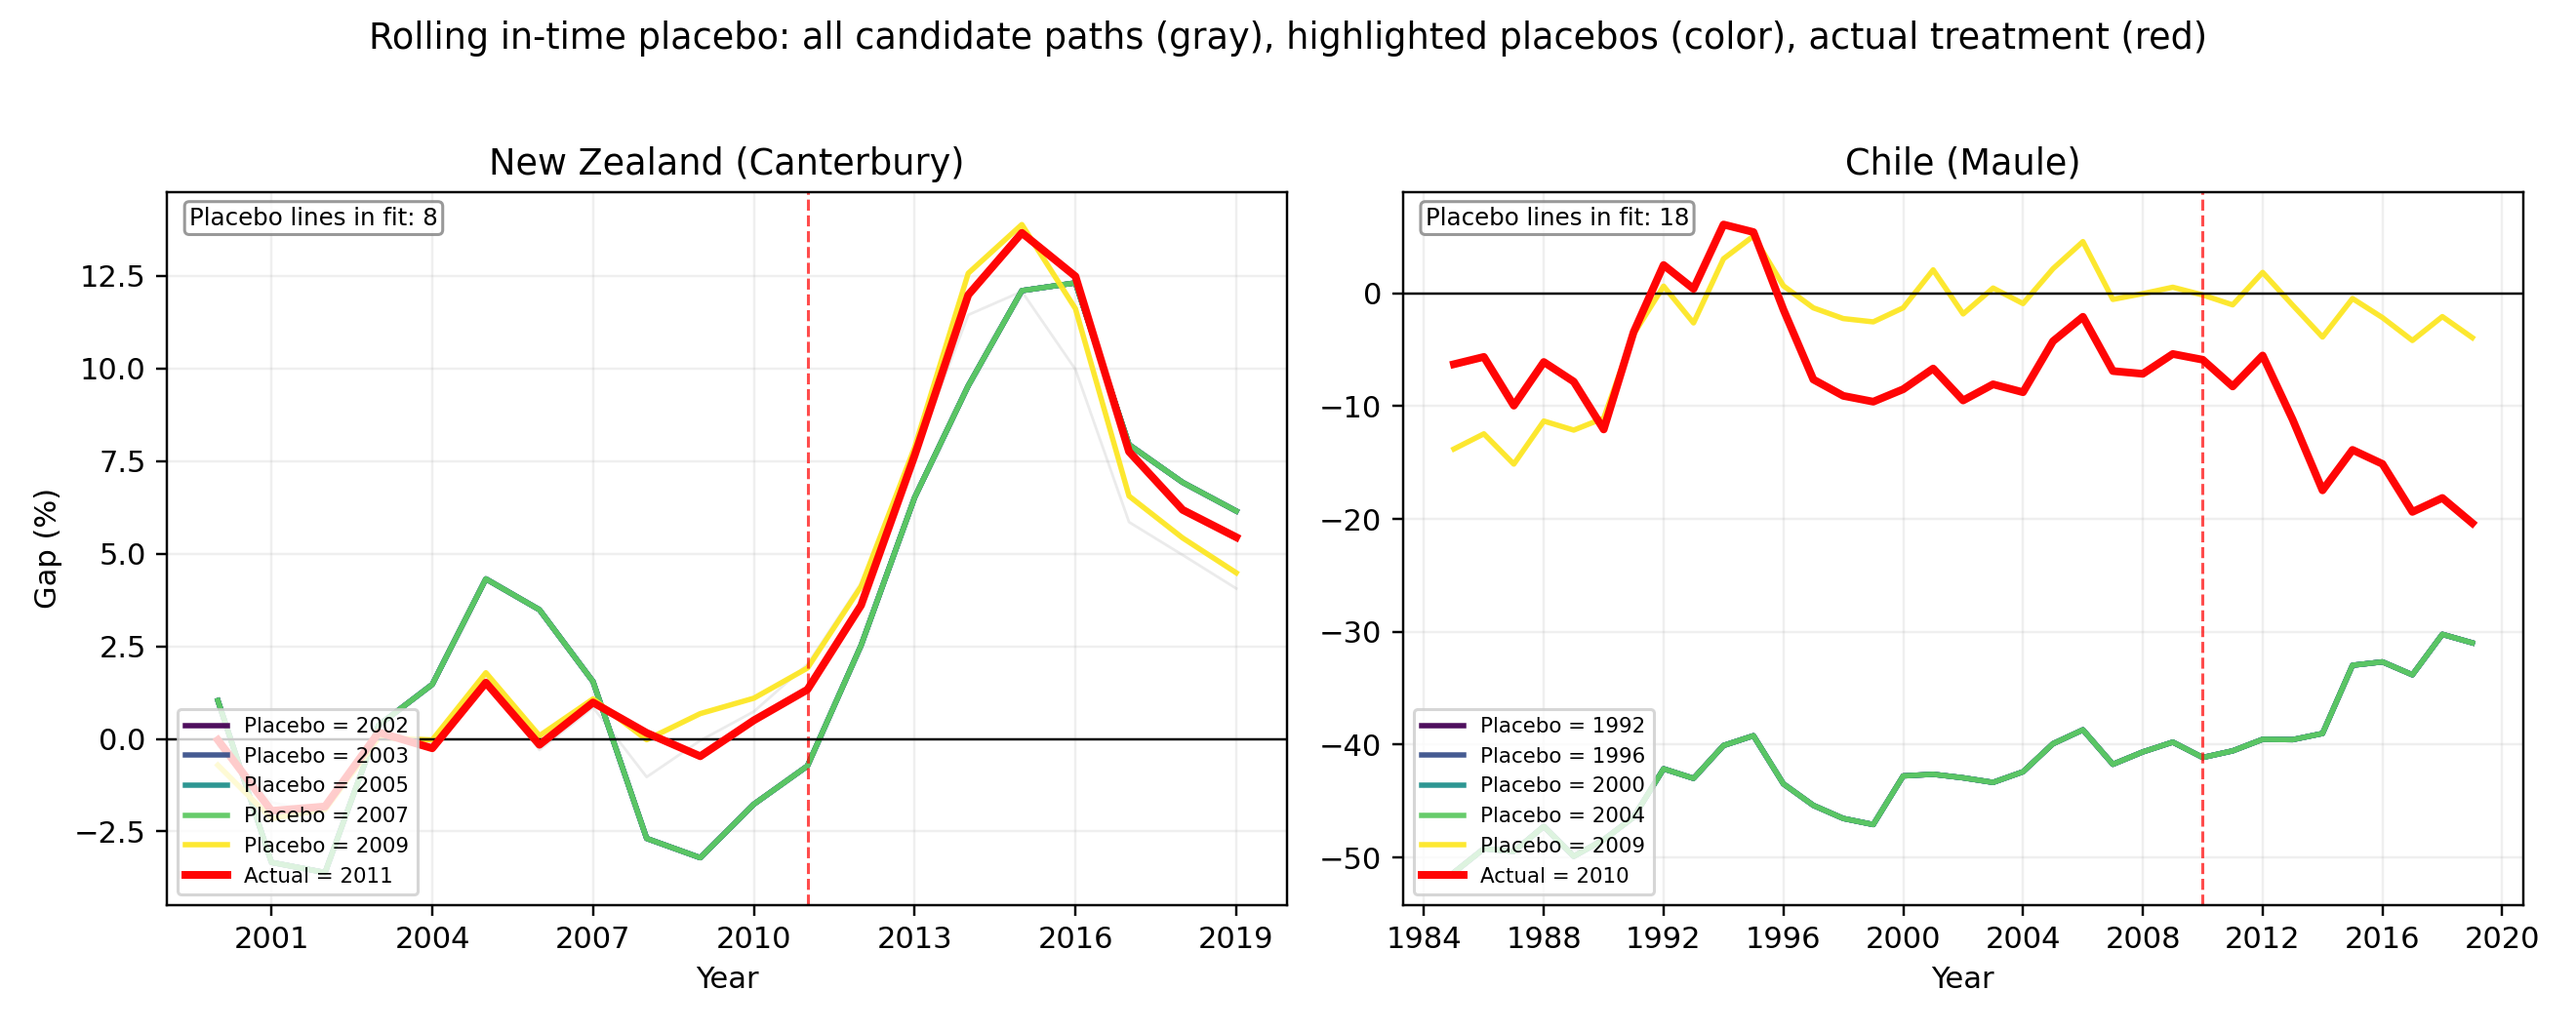
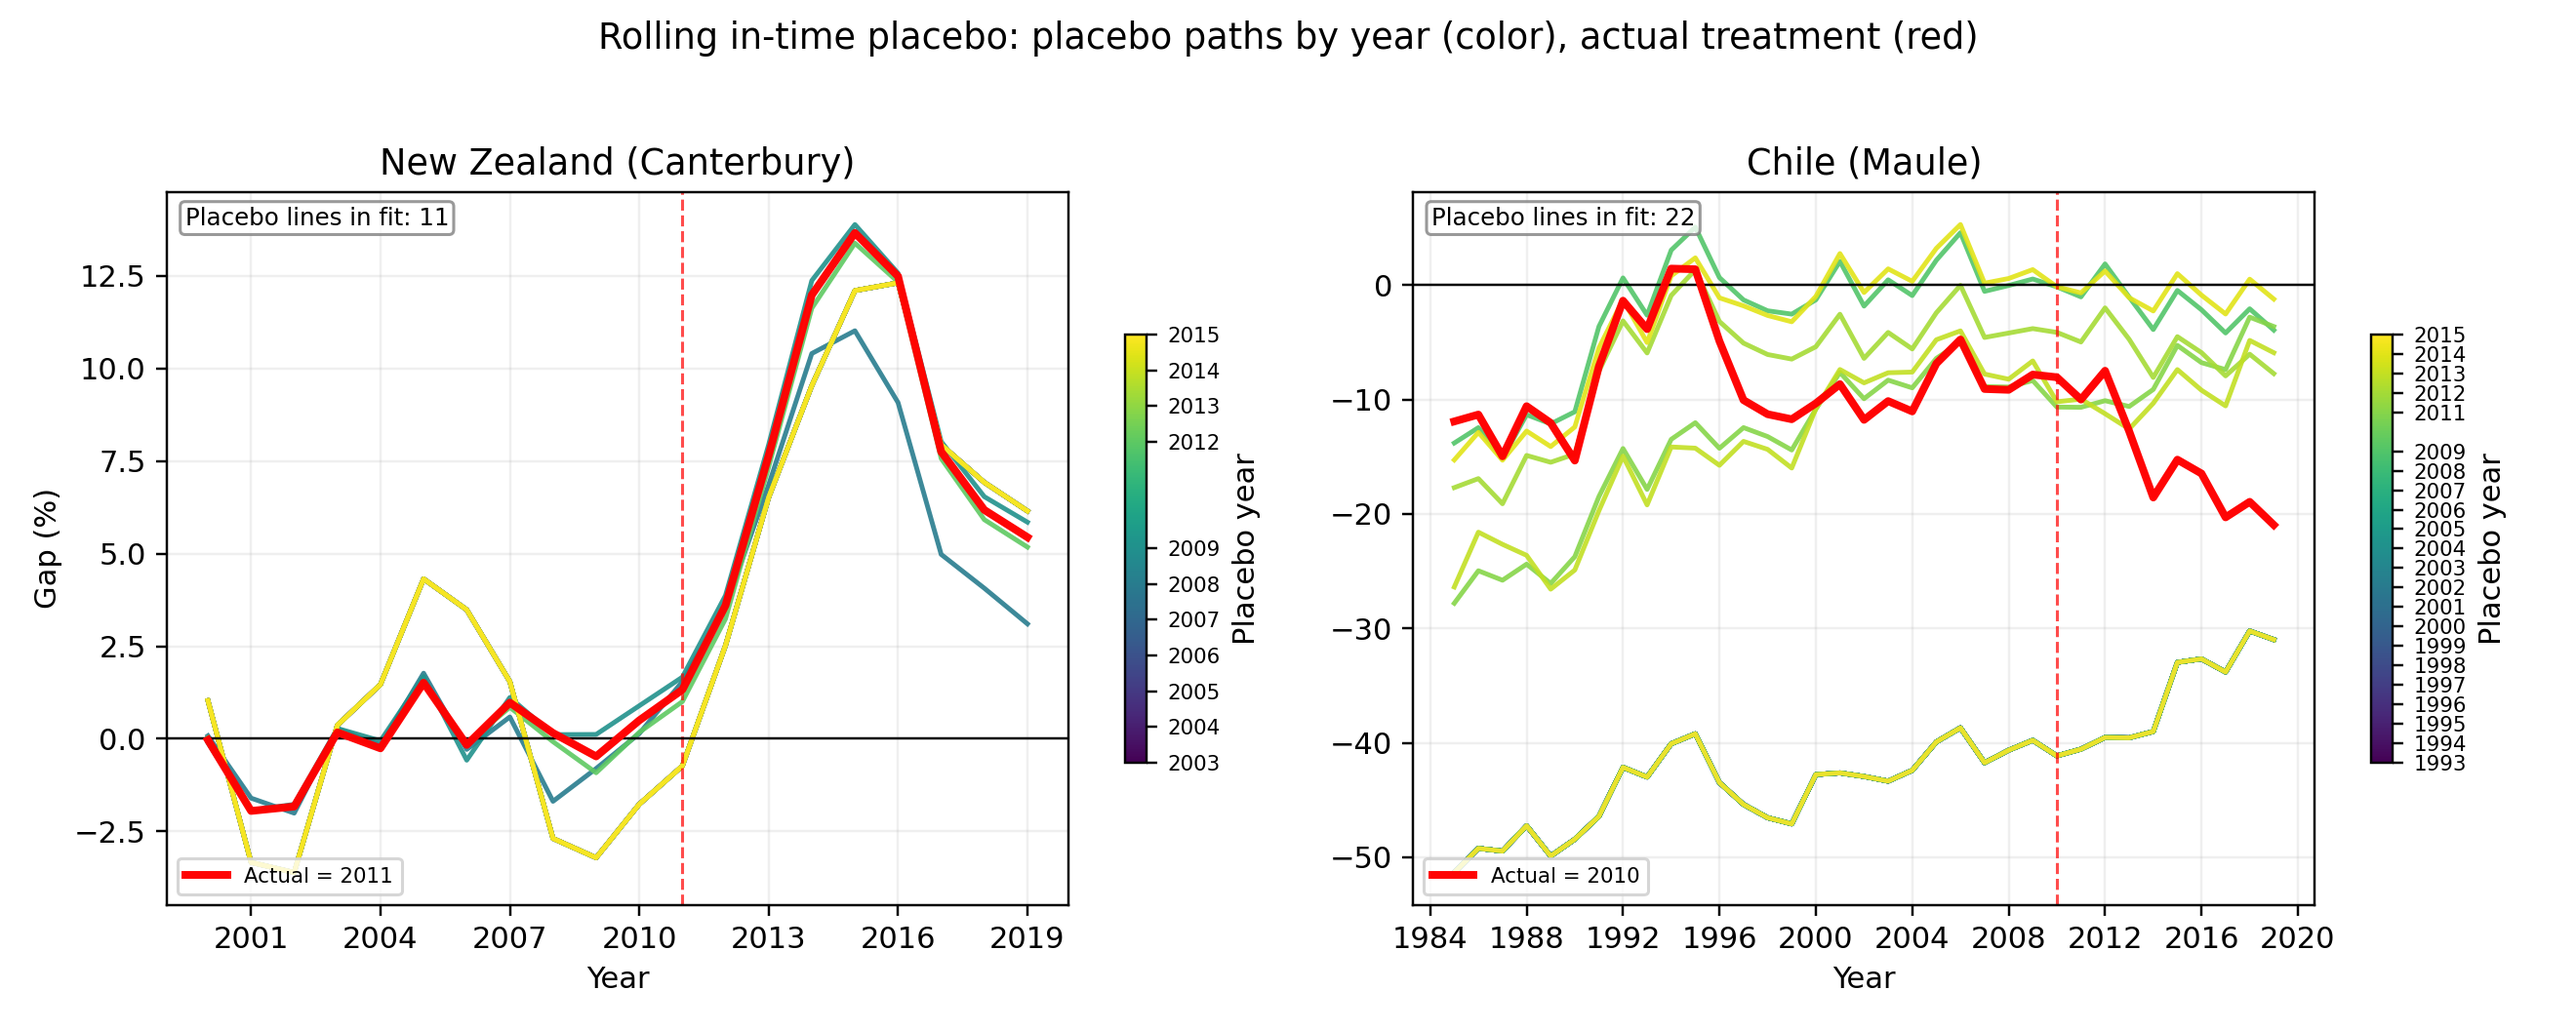
Added rolling in-time placebo analysis for every pre-treatment year.

diff --git a/src/rolling_in_time_placebo.py b/src/rolling_in_time_placebo.py
@@ -36,9 +36,12 @@ FIGURES_DIR = os.path.join(_PROJECT_ROOT, "article_assets")
 os.makedirs(FIGURES_DIR, exist_ok=True)
 
 NZ_ACTUAL_TREATMENT = 2011
-NZ_PRE_YEARS = list(range(2000, 2010))  # 2000-2009, every pre-treatment year
 CHILE_ACTUAL_TREATMENT = 2010
-CHILE_PRE_YEARS = list(range(1990, 2010))  # 1990-2009
+# Candidate treatment years: pre-treatment, actual, and post-earthquake through 2015.
+PLACEBO_CANDIDATE_END_YEAR = 2015
+NZ_FIT_START_YEAR = 2000
+CHILE_FIT_START_YEAR = 1990
+MIN_PRE_YEARS = 3  # at least 3 pre-treatment years per fit for stability
 
 
 def _run_rolling_placebo(
@@ -57,8 +60,7 @@ def _run_rolling_placebo(
     gap_paths: dict[int, pd.Series] = {}
     summary_rows: list[dict] = []
 
-    # Require at least 2 pre-treatment years so we can include nearly all reviewer-requested placebo years.
-    min_pre_years = 2
+    min_pre_years = MIN_PRE_YEARS
     optimizer_attempts = ["Nelder-Mead", "Powell", "BFGS", "L-BFGS-B"]
     for T in candidate_years:
         pre_years = [y for y in all_years if fit_start_year <= y < T]
@@ -146,8 +148,17 @@ def run_rolling_in_time_placebo(output_dir: str = FIGURES_DIR) -> tuple[pd.DataF
     nz_df["Tertiary Share"] = nz_df["Tertiary"] / nz_df["Population"]
     chile_df = pd.read_csv(os.path.join(_PROJECT_ROOT, "inter", "processed_chile.csv"))
 
-    nz_candidates = NZ_PRE_YEARS + [NZ_ACTUAL_TREATMENT]
-    chile_candidates = CHILE_PRE_YEARS + [CHILE_ACTUAL_TREATMENT]
+    # Pre-treatment years, actual year, and post-earthquake placebos through PLACEBO_CANDIDATE_END_YEAR.
+    nz_candidates = (
+        list(range(NZ_FIT_START_YEAR + MIN_PRE_YEARS, 2010))  # 2003-2009
+        + [NZ_ACTUAL_TREATMENT]
+        + list(range(NZ_ACTUAL_TREATMENT + 1, PLACEBO_CANDIDATE_END_YEAR + 1))  # 2012-2015
+    )
+    chile_candidates = (
+        list(range(CHILE_FIT_START_YEAR + MIN_PRE_YEARS, 2010))  # 1993-2009
+        + [CHILE_ACTUAL_TREATMENT]
+        + list(range(CHILE_ACTUAL_TREATMENT + 1, PLACEBO_CANDIDATE_END_YEAR + 1))  # 2011-2015
+    )
 
     nz_paths, nz_summary = _run_rolling_placebo(
         country="New Zealand",
@@ -158,7 +169,7 @@ def run_rolling_in_time_placebo(output_dir: str = FIGURES_DIR) -> tuple[pd.DataF
         unit_col="Region",
         time_col="Year",
         outcome_col="GDP per capita",
-        fit_start_year=2000,
+        fit_start_year=NZ_FIT_START_YEAR,
     )
     chile_paths, chile_summary = _run_rolling_placebo(
         country="Chile",
@@ -169,13 +180,13 @@ def run_rolling_in_time_placebo(output_dir: str = FIGURES_DIR) -> tuple[pd.DataF
         unit_col="region_name",
         time_col="year",
         outcome_col="gdp_cap",
-        fit_start_year=1990,
+        fit_start_year=CHILE_FIT_START_YEAR,
     )
 
     n_nz = len(nz_paths.columns)
     n_chile = len(chile_paths.columns)
-    expected_nz = len([y for y in nz_candidates if y - 2000 >= 2])
-    expected_chile = len([y for y in chile_candidates if y - 1990 >= 2])
+    expected_nz = len([y for y in nz_candidates if y - NZ_FIT_START_YEAR >= MIN_PRE_YEARS])
+    expected_chile = len([y for y in chile_candidates if y - CHILE_FIT_START_YEAR >= MIN_PRE_YEARS])
     if n_nz < expected_nz or n_chile < expected_chile:
         import warnings
         warnings.warn(
@@ -204,7 +215,7 @@ def run_rolling_in_time_placebo(output_dir: str = FIGURES_DIR) -> tuple[pd.DataF
     )
 
     # Two-panel figure for manuscript (separate y-axes: NZ ~0–10%, Chile ~-45–5%).
-    # Plot all placebo paths faintly, and explicitly highlight at least 5 placebo years for readability.
+    # Plot every fitted placebo path in a distinct color so "Placebo lines in fit" matches the figure.
     fig, axes = plt.subplots(1, 2, figsize=(12, 4.8), sharey=False)
     cmap = mcm.get_cmap("viridis")
     for ax, paths_df, actual_year, title in [
@@ -215,33 +226,27 @@ def run_rolling_in_time_placebo(output_dir: str = FIGURES_DIR) -> tuple[pd.DataF
         n_placebo = len(placebo_years)
         x_vals = np.asarray(paths_df.index, dtype=float)
 
-        # 1) Draw every placebo path lightly so the complete set is retained.
+        # Draw every placebo path in a distinct color (colormap by placebo year).
+        norm = mcolors.Normalize(vmin=min(placebo_years), vmax=max(placebo_years)) if n_placebo else None
         for col in placebo_years:
-            ax.plot(
-                x_vals,
-                paths_df[col].to_numpy(),
-                color="lightgray",
-                linewidth=0.9,
-                alpha=0.45,
-                zorder=1,
-            )
-
-        # 2) Explicitly highlight at least 5 placebo paths (or all if fewer than 5 exist).
-        n_highlight = min(5, n_placebo)
-        highlighted_years = [
-            placebo_years[i] for i in np.linspace(0, max(0, n_placebo - 1), n_highlight, dtype=int)
-        ] if n_highlight > 0 else []
-        for i, col in enumerate(highlighted_years):
-            t = i / max(1, n_highlight - 1)
+            t = norm(col) if norm is not None else 0
             ax.plot(
                 x_vals,
                 paths_df[col].to_numpy(),
                 color=cmap(t),
-                linewidth=1.8,
-                alpha=0.95,
+                linewidth=1.6,
+                alpha=0.9,
                 zorder=2,
-                label=f"Placebo = {col}",
             )
+
+        # Colorbar only for placebo years that appear in the fit (no missing years).
+        if n_placebo > 0 and norm is not None:
+            sm = mcm.ScalarMappable(cmap=cmap, norm=norm)
+            sm.set_array(placebo_years)
+            cbar = fig.colorbar(sm, ax=ax, shrink=0.6, aspect=20, label="Placebo year")
+            cbar.set_ticks(placebo_years)
+            cbar.set_ticklabels(placebo_years)
+            cbar.ax.tick_params(labelsize=7)
 
         # Plot actual treatment year on top.
         if actual_year in paths_df.columns:
@@ -273,7 +278,7 @@ def run_rolling_in_time_placebo(output_dir: str = FIGURES_DIR) -> tuple[pd.DataF
         )
         ax.legend(loc="lower left", fontsize=7, frameon=True)
     axes[0].set_ylabel("Gap (%)")
-    fig.suptitle("Rolling in-time placebo: all candidate paths (gray), highlighted placebos (color), actual treatment (red)")
+    fig.suptitle("Rolling in-time placebo: placebo paths by year (color), actual treatment (red)")
     fig.tight_layout(rect=(0, 0, 1, 0.96))
     fig.savefig(os.path.join(output_dir, "rolling_in_time_placebo_paths.png"), dpi=220)
     plt.close(fig)
